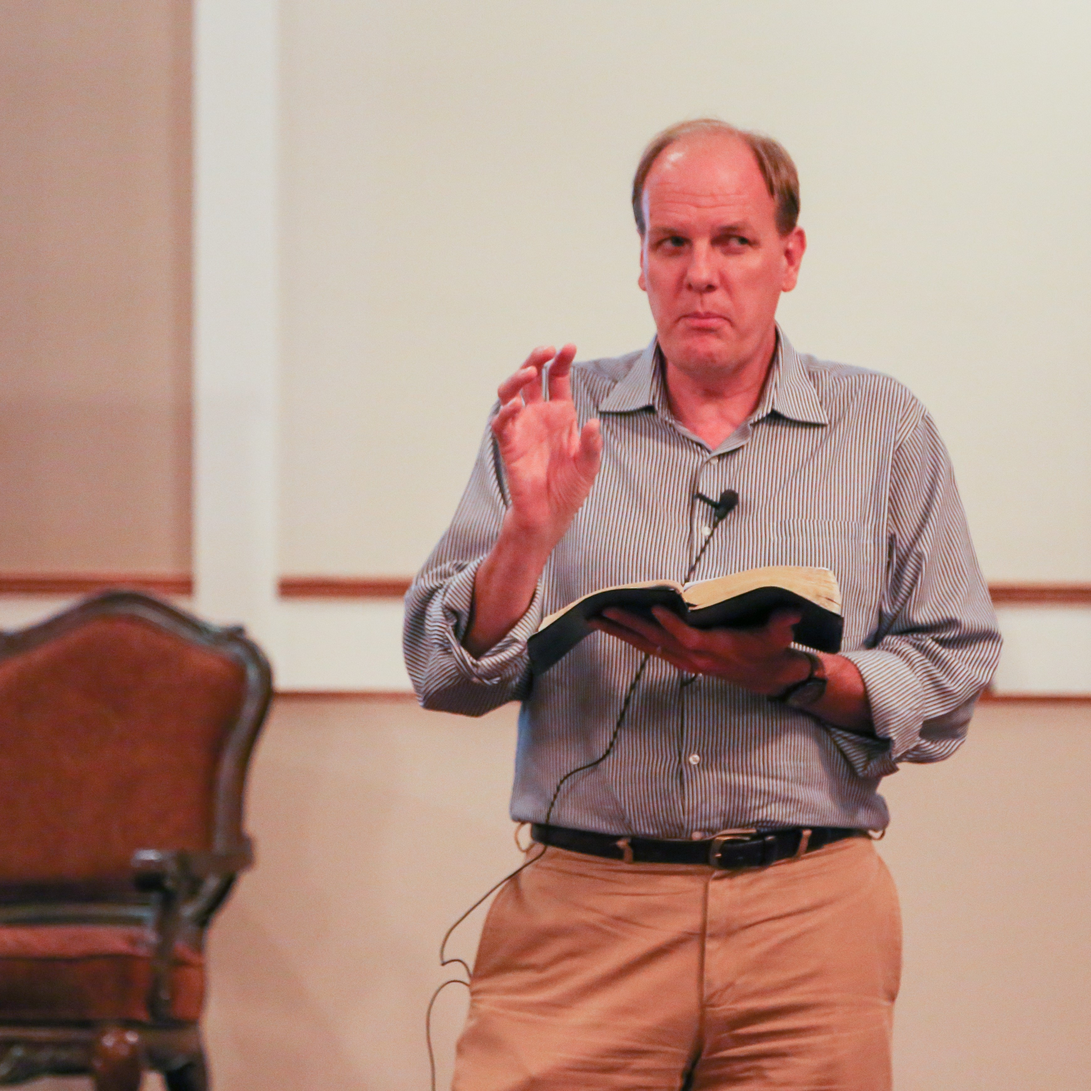
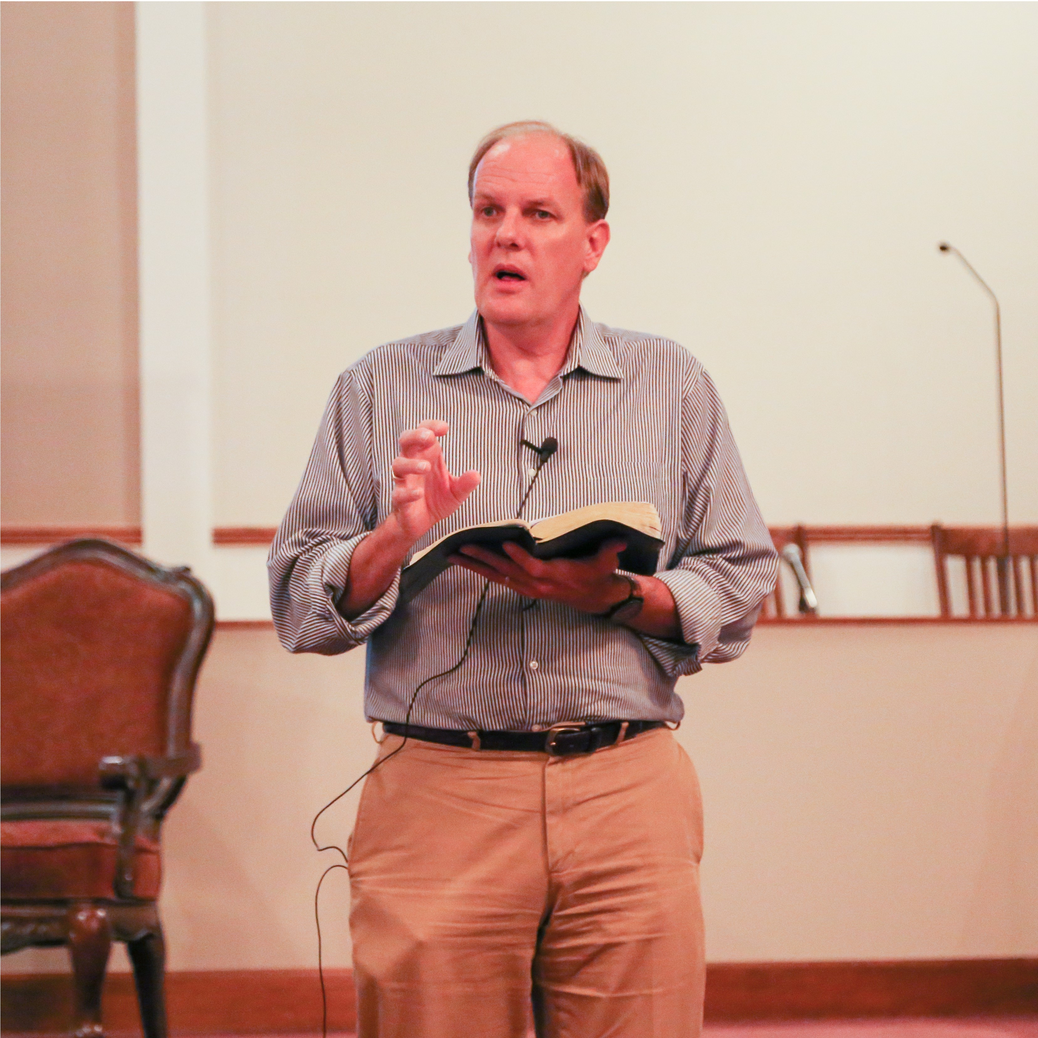
fixed background and coloring, starting using photos

diff --git a/assets/css/main.css b/assets/css/main.css
@@ -1624,7 +1624,7 @@
 
 	body {
 		background-color: #2e3141;
-		background-image: linear-gradient(to top, rgba(46, 49, 65, 0.8), rgba(46, 49, 65, 0.8)), url("../../images/bg.jpg");
+		background-image: linear-gradient(to top, rgba(83, 106, 160, 0.5), rgba(83, 106, 160, 0.5)), url("../../images/bg.jpg");
 		background-size: auto, cover;
 		background-attachment: fixed, fixed;
 		background-position: center, center;
@@ -2223,13 +2223,12 @@
 			}
 
 		.image.icon {
-			display: inline-block;
-			margin: 0 0 2em 1em;
-			width: 20%;
+			height: 3.5em;
+			width: auto;
 		}
-			.image.icon img {
+			/* .image.icon img {
 				width: 100%;
-			}
+			} */
 
 /* List */
 
@@ -2813,7 +2812,7 @@
 		-webkit-transition: background-color 0.2s ease-in-out;
 		-ms-transition: background-color 0.2s ease-in-out;
 		transition: background-color 0.2s ease-in-out;
-		background-color: rgba(53, 56, 73, 0.95);
+		background-color: rgba(31, 57, 96, 0.65);
 		height: 3.5em;
 		left: 0;
 		line-height: 3.5em;
@@ -2830,7 +2829,7 @@
 			-ms-transition: opacity 0.2s ease-in-out, visibility 0.2s;
 			transition: opacity 0.2s ease-in-out, visibility 0.2s;
 			border-bottom: 0;
-			font-size: 0.8em;
+			font-size: 0.95em;
 			margin-bottom: 0;
 			opacity: 1;
 			visibility: visible;
@@ -2908,7 +2907,7 @@
 		@media screen and (max-width: 736px) {
 
 			#header {
-				height: 2.75em;
+				height: 3.5em;
 				line-height: 2.75em;
 			}
 
@@ -3171,6 +3170,7 @@
 			font-size: 2.25em;
 			margin-bottom: 0.8em;
 			padding-bottom: 0.4em;
+			text-shadow: 0px 0px 2px #000000;
 		}
 
 		#banner p {
@@ -3197,6 +3197,7 @@
 			letter-spacing: 0.1em;
 			line-height: 2;
 			text-transform: uppercase;
+			text-shadow: 0px 0px 1px #000000;
 		}
 
 		@media screen and (max-width: 1280px) {
@@ -3204,7 +3205,7 @@
 			#banner {
 				padding: 7em 0 8.25em 0 ;
 				background-color: #2e3141;
-				background-image: linear-gradient(to top, rgba(46, 49, 65, 0.8), rgba(46, 49, 65, 0.8)), url("../../images/bg.jpg");
+				background-image: linear-gradient(to top, rgba(83, 106, 160, 0.5), rgba(83, 106, 160, 0.5)), url("../../images/bg.jpg");
 				background-size: auto, cover;
 				background-position: center, center;
 				margin-bottom: -6.5em;
@@ -3314,7 +3315,7 @@
 		#wrapper > header {
 			padding: 9em 0 6.25em 0 ;
 			background-color: #2e3141;
-			background-image: linear-gradient(to top, rgba(46, 49, 65, 0.8), rgba(46, 49, 65, 0.8)), url("../../images/bg.jpg");
+			background-image: linear-gradient(to top, rgba(83, 106, 160, 0.5), rgba(83, 106, 160, 0.5)), url("../../images/bg.jpg");
 			background-size: auto, cover;
 			background-position: center, 0% 30%;
 			margin-bottom: -6.5em;
@@ -3754,6 +3755,7 @@
 		flex-wrap: wrap;
 		margin: 0 auto;
 		width: 55em;
+		text-shadow: 0px 0px 1px #000000;
 	}
 
 		#footer .inner > * {
@@ -3775,11 +3777,12 @@
 			margin: 4em 0 2em 0;
 			padding: 2em 0 0 0;
 			width: 100%;
+			text-shadow: none;
 		}
 
 			#footer .inner .copyright li {
 				border-left: solid 2px rgba(255, 255, 255, 0.125);
-				color: rgba(255, 255, 255, 0.35);
+				color: rgba(255, 255, 255, 0.45);
 				display: inline-block;
 				font-size: 0.9em;
 				line-height: 1;
@@ -3802,7 +3805,7 @@
 
 		#footer {
 			background-color: #2e3141;
-			background-image: linear-gradient(to top, rgba(46, 49, 65, 0.8), rgba(46, 49, 65, 0.8)), url("../../images/bg.jpg");
+			background-image: linear-gradient(to top, rgba(83, 106, 160, 0.5), rgba(83, 106, 160, 0.5)), url("../../images/bg.jpg");
 			background-size: auto, cover;
 			background-position: center, center;
 			margin-top: -6.5em;

diff --git a/index.html b/index.html
@@ -21,7 +21,8 @@
 
 				<!-- Header -->
 					<header id="header" class="alt">
-						<h1><a href="index.html">Grace Pres Grenada</a></h1>
+						<!-- <h1><a href="index.html">Grace Pres Grenada</a></h1> -->
+						<h1><a href="#"><img src="images/grace_logo_blue.png" class="image icon"/></a></h1>
 						<nav>
 							<a href="#menu">Menu</a>
 						</nav>
@@ -43,9 +44,16 @@
 				<!-- Banner -->
 					<section id="banner">
 						<div class="inner">
+							<!-- <div class="logo">
+								<img src="images/pca_logo_white.png" class="icon"/>
+							</div> -->
 							<h2>
-								<img src="images/pca_logo_white.png" class="image icon"/>
-								<img src="images/grace_logo_blue.png" class="image header" />
+								<br />
+								<br />
+								<br />
+								Grace Presbyterian Church
+								<!-- <img src="images/pca_logo_white.png" class="image icon"/>
+								<img src="images/grace_logo_blue.png" class="image header" /> -->
 							</h2>
 							<p>Grenada, MS</p>
 						</div>
@@ -57,12 +65,12 @@
 						<!-- One -->
 							<section id="one" class="wrapper spotlight style1">
 								<div class="inner">
-									<a href="#" class="image"><img src="images/pic01.jpg" alt="" /></a>
+									<a href="#" class="image"><img src="images/pca_logo_white.png" alt="" /></a>
 									<div class="content">
 										<h2 class="major">Mission Statement</h2>
 										<p>
 											Our mission is to bring the people of Grenada County
-											into a life-transforming encounter with Jesus Christ
+											into a life-transforming encounter with Jesus Christ.
 										</p>
 										<a href="mission" class="special">Learn more</a>
 									</div>
@@ -72,7 +80,7 @@
 						<!-- Two -->
 							<section id="two" class="wrapper alt spotlight style2">
 								<div class="inner">
-									<a href="#" class="image"><img src="images/pic01.jpg" alt="" /></a>
+									<a href="#" class="image"><img src="images/outreach_sermon_square.jpg" alt="" /></a>
 									<div class="content">
 										<h2 class="major">Vision Statement</h2>
 										<p>
@@ -88,10 +96,11 @@
 						<!-- Three -->
 							<section id="three" class="wrapper spotlight style3">
 								<div class="inner">
-									<a href="#" class="image"><img src="images/pic01.jpg" alt="" /></a>
+									<a href="#" class="image"><img src="images/childrens_ministry_2_square.jpg" alt="" /></a>
 									<div class="content">
 										<h2 class="major">Ministries</h2>
 										<p>
+											&bull; Children's Nursery<br />
 											&bull; Celebrate Recovery<br />
 											&bull; Divorce Care<br />
 											&bull; Financial Peace University
